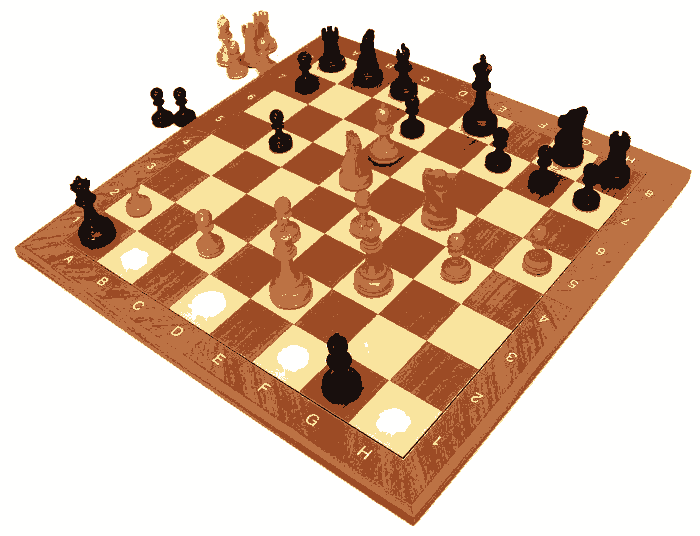
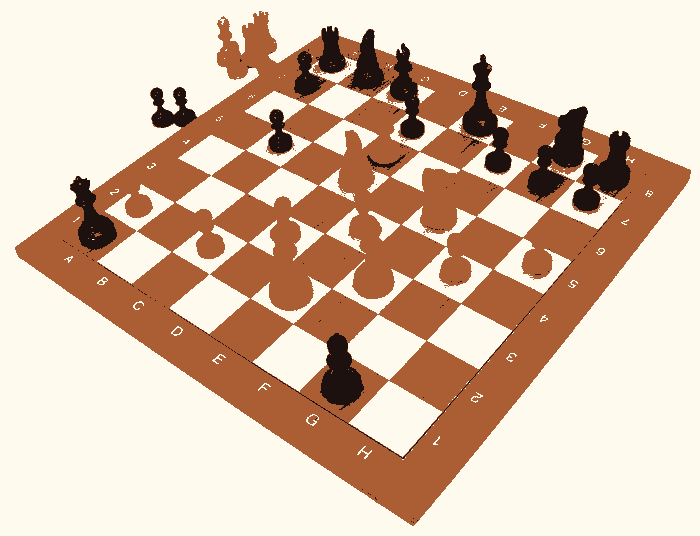
Completely redid kmeans rgb -- final

diff --git a/Pillow/kMeans.py b/Pillow/kMeans.py
@@ -1,73 +1,67 @@
-'''
-input: k-value image(file/url)
-RGB values of each pixel as data set, group into k groups
-replace each pixel with the rgb value of its nearest mean
-
-K-Means:
-1. Initialize centroids
-2. categorize every data point to a centroid
-3. Adjust centroid position
-
-for each data point, know the rgb values
-
-'''
+import sys; args=sys.argv[1:]
+#Krish Ganotra - kmeans rgb
 import random
 from PIL import Image
-import urllib.request
-import io
-import sys
 import time
 
 global seen
-global distances
-distances = {}
 
 def distance(p1, p2): #finds the distance between p1 and p2
-    global distances
-    if((p1,p2) not in distances):
-        distances[(p1,p2)] = sum((p1[i]-p2[i])**2 for i in range(len(p1)))
-    return distances[(p1,p2)]
+    return sum((p1[i]-p2[i])**2 for i in range(len(p1)))
 
-def categorize(data, centroids): #given list of centroids and data, returns centroids dictionary
-    categories = {i:[] for i in range(len(centroids))}
-
+def categorize_and_reposition(rgbDict, centroids):
     centDistances = []
     for cent1 in range(len(centroids)):
         for cent2 in range(cent1+1, len(centroids)):
             centDistances.append(distance(centroids[cent1], centroids[cent2]))
     minCentDist = min(centDistances)/4
 
-    seenRGB = {}
-    for pixel in data:
-        rgb = pixel[0]
-        if(rgb in seenRGB):
-            categories[seenRGB[rgb]].append(pixel)
-            continue
-        distances = []
-        broken = False
-        count = 0
-        for cent in centroids:
-            dist = distance(rgb, cent)
-            distances.append((dist,count))
-            if(dist < minCentDist):
-                categories[count].append(pixel)
-                seenRGB[rgb] = count
-                broken = True
-                break
-            count += 1
-        if(broken): continue
-        closest = min(distances)[1]
-        categories[closest].append(pixel)
-        seenRGB[rgb] = closest
-    return categories
+    centCounts = [0]*len(centroids)
+    centSums = [[0,0,0] for i in range(len(centroids))]
+    for rgb in rgbDict:
+        closestCentInd = -1
+        occurences, centInd = rgbDict[rgb]
+        distances = [(distance(rgb, centroids[centInd]), centInd)]
+        if(distances[0][0] < minCentDist):
+            closestCentInd = centInd
+        else:
+            for icent, cent in enumerate(centroids):
+                if(icent == centInd): continue
+                dist = distance(cent, rgb)
+                if(dist < minCentDist):
+                    closestCentInd = icent
+                    break
+                distances.append((dist, icent))
+        if(closestCentInd == -1):
+            closestCentInd = min(distances)[1]
 
-def reposition(categories): #given centroids dictionary, returns centroid list of new positions
-    newCentroids = []
-    for cent in categories:
-        pointDim = len(categories[cent][0][0]) # 3 since there are 3 channels (r,g,b)
-        averages = tuple([sum(pixel[0][i] for pixel in categories[cent])/len(categories[cent]) for i in range(pointDim)])
-        newCentroids.append(averages)
-    return newCentroids
+        rgbDict[rgb] = [occurences, closestCentInd]
+        centCounts[closestCentInd] += occurences
+        for i in range(3):
+            centSums[closestCentInd][i] += occurences*rgb[i]
+    new_centroids = []
+    for centInd in range(len(centroids)):
+        new_cent = tuple(centSums[centInd][i]/centCounts[centInd] for i in range(3))
+        new_centroids.append(new_cent)
+    return rgbDict, centCounts, new_centroids
+
+
+
+# def reposition(rgbDict, k): #given rgb dictionary, returns centroid list of new positions
+#     rgbLen = 3
+#     centroids = [[0]*rgbLen]*k
+#     centroidCounts = [0]*k
+#     for rgb in rgbDict:
+#         occurences, centInd = rgbDict[rgb]
+#         centroids[centInd] = [centroids[centInd][i]+rgb[i]*occurences for i in range(rgbLen)]
+#         centroidCounts[centInd] += occurences
+#     return [tuple(centroids[centInd][i]/centroidCounts[centInd] for i in range(rgbLen)) for centInd in range(k)]
+
+
+'''
+{(rgb): [occurences, centroidIndex]}
+[centroid1, centroid2,...]
+'''
 
 def areaFill(pix, x, y):
     global seen
@@ -83,25 +77,23 @@ def areaFill(pix, x, y):
                     queue.append((newx,newy))
                     seen.add((newx,newy))
 
-def initalizeCentroids(pixelNL, setPixelNL, count): #Better initialization method smh
-    # # RANDOM
-    # kcoords = set()
-    # uniquePixelsNL = list(setPixelNL)
-    # for i in range(count):
-    #     add = random.choice(uniquePixelsNL)
-    #     while(add in kcoords):
-    #         add = random.choice(uniquePixelsNL)
-    #     kcoords.add(add)
-    # return list(kcoords)
+def initalizeCentroids(rgbDict, count):
+    # kcoords = [random.choice(allrgb)]
+    # prob = [distance(pixel, kcoords[0]) for pixel in allrgb]
+    # for i in range(count-1):
+    #     print(kcoords)
+    #     kcoords.append(random.choices(population=allrgb, weights=prob)[0])
+    #     prob = [min(distance(pixel, kcoords[i]) for i in range(len(kcoords))) for pixel in pixels]
+    #
+    # return kcoords
 
-    # KMEANS++
-    uniquePixelsNL = list(setPixelNL) #make sure kcoords are unique
-    kcoords = [pixelNL[int(random.random()*len(pixelNL))]]
-    for i in range(count-1):
-        # dists = [(min(distance(pixel, kcoord) for kcoord in kcoords), pixel) for pixel in uniquePixelsNL]
-        # kcoords.append(max(dists)[1])
-        dists =   [min(distance(pixel, kcoord) for kcoord in kcoords) for pixel in uniquePixelsNL]
-        kcoords.append(random.choices(uniquePixelsNL, weights=dists)[0])
+    allrgb = list(rgbDict.keys())
+    kcoords = []
+    for i in range(count):
+        add = random.choice(allrgb)
+        while(add in kcoords):
+            add = random.choice(allrgb)
+        kcoords.append(add)
     return kcoords
 
 
@@ -113,59 +105,53 @@ for input in sys.argv[1:]:
     else:
         imageInfo = input
 
-if('http' in imageInfo):
-    imageInfo = io.BytesIO(urllib.request.urlopen(imageInfo).read())
 img = Image.open(imageInfo)
 pix = img.load()
 
 #set up data and centroids
-pixels = [[pix[x,y], (x,y)] for x in range(img.size[0]) for y in range(img.size[1])]
-pixelNoLocation = [(rgb[0],rgb[1],rgb[2]) for rgb,pos in pixels]
-setPixelNL = set(pixelNoLocation)
+rgbDict = {}
+for x in range(img.size[0]):
+    for y in range(img.size[1]):
+        rgb = pix[x,y]
+        if(rgb in rgbDict): rgbDict[rgb][0] += 1
+        else: rgbDict[rgb] = [1, 0]
 
 print('size:', img.size[0], 'x', img.size[1])
-print('pixels:', len(pixels))
-print('distinct pixel count:', len(setPixelNL))
-counts = {pixel:0 for pixel in setPixelNL}
-for pixel in pixelNoLocation:
-    counts[pixel] += 1
-# mostCommon = max((pixelNoLocation.count(pixel), pixel) for pixel in setPixelNL)
-mostCommon = max(counts, key=counts.get)
-print('most common pixel:', mostCommon, '=>', counts[mostCommon])
+print('pixels:', img.size[0]*img.size[1])
+print('distinct pixel count:', len(rgbDict))
+mostCommon = max((rgbDict[rgb][0], rgb) for rgb in rgbDict)
+print('most common pixel:', mostCommon[1], '=>', mostCommon[0])
 
-kcoords = initalizeCentroids(pixelNoLocation, setPixelNL, k)
-print('random means:', kcoords)
-print("Centroids initialized; time taken so far", time.time()-start, end='\n\n')
-
-categories = categorize(pixels, kcoords)
-
-net = [len(categories[k]) for k in categories]
-print('starting sizes', net)
+centroids = initalizeCentroids(rgbDict, k)
+# print('random means:', centroids, end='\n\n')
 
 count = 0
+centCounts = [0]*k
+net = []
 while(net != [0]*k):
     count += 1
-    kcoords = reposition(categories)
-    newCategories = categorize(pixels, kcoords)
-    net = [len(newCategories[k]) - len(categories[k]) for k in categories]
-    categories = newCategories
-    print(f'diff {count}: {net} -- time taken:', time.time()-start)
+    rgbDict, newCentCounts, centroids = categorize_and_reposition(rgbDict, centroids)
+    net = [newCentCounts[i]-centCounts[i] for i in range(len(centCounts))]
+    centCounts = newCentCounts
+    # print(f'diff {count}: {net}-- time taken: {time.time()-start}')
 
 print()
 print('Final means:')
-count = 0
-for cent in categories:
-    count+=1
-    print(f'{count}: {tuple(kcoords[cent])} => {len(categories[cent])}')
-    for point in categories[cent]:
-        x,y = point[1]
-        pix[x,y] = tuple([round(channel) for channel in kcoords[cent]])
+for i,cent in enumerate(centroids):
+    print(f'{i+1}: {cent} => {centCounts[i]}')
+
+centroids = [tuple(round(cent[i]) for i in range(3)) for cent in centroids]
+for x in range(img.size[0]):
+    for y in range(img.size[1]):
+        currRGB = pix[x,y]
+        newRGB = centroids[rgbDict[currRGB][1]]
+        pix[x,y] = newRGB
+
 
 img.save('kmeans/{}.png'.format('2021kganotra'), 'PNG')
 
-kcoords = [(round(rgb[0]), round(rgb[1]), round(rgb[2])) for rgb in kcoords]
 seen = set()
-regionCount = {cent:0 for cent in kcoords}
+regionCount = {cent:0 for cent in centroids}
 print()
 for x in range(img.size[0]):
     for y in range(img.size[1]):
